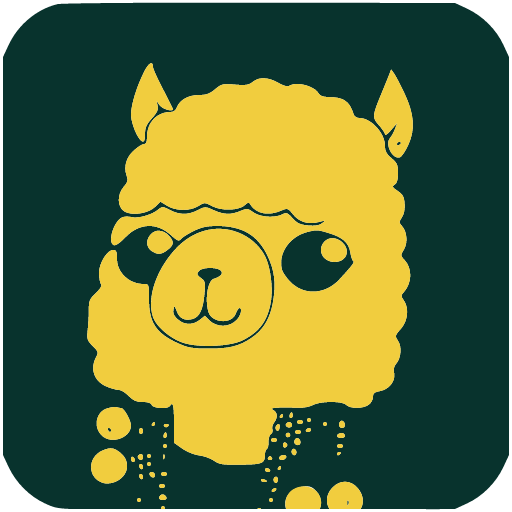
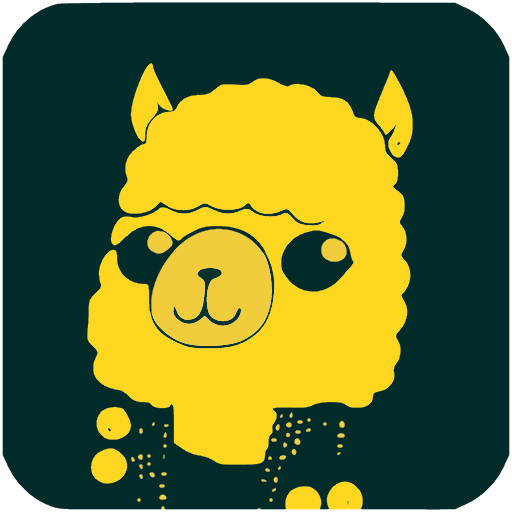
Правка и унификация Readme + media

diff --git a/README_ENG.md b/README_ENG.md
@@ -101,11 +101,11 @@ To save the response in the console, you can use the standard `>` redirect or th
 
 <br/><br>
 
-When using versions for 1C and OneScript, you can also manually copy common module code into your project. However, regardless of the chosen installation method, it is recommended to obtain files from [*Releases*](https://github.com/Bayselonarrend/OpenIntegrations/releases/latest) or the [*stable branch*](https://github.com/Bayselonarrend/OpenIntegrations/tree/stable) of the repository, as the source files in the main branch may contain intermediate data and functions under development.
+When using versions for 1C and OneScript, you can also manually copy common module code into your project. However, regardless of the chosen installation method, it is recommended to obtain files from [*Downloads page*](https://en.openintegrations.dev/download/), *Releases* or the *stable branch* of the repository, as the source files in the main branch may contain intermediate data and functions under development.
 
 Quick start options:
 
-- To start working in 1C: Simply [download](https://github.com/Bayselonarrend/OpenIntegrations/releases/latest) the CFE file (or XML export) of the extension and load it into your configuration's extensions list<br>
+- To start working in 1C: Simply [download](https://en.openintegrations.dev/download/) the CFE file (or XML export) of the extension and load it into your configuration's extensions list<br>
 - To start working in OneScript: Install the package
 
    From the package hub (RU version only):
@@ -122,7 +122,7 @@ Quick start options:
 
 <br>
 
-- To start working with CLI (command line application): [Download from releases](https://github.com/Bayselonarrend/OpenIntegrations/releases/latest) the Windows installer or one of the Linux package variants, depending on your operating system
+- To start working with CLI (command line application): [Download](https://en.openintegrations.dev/download/) the Windows installer or one of the Linux package variants, depending on your operating system
 
 Regardless of the installation method, OInt CLI is launched with the `oint` command from the command line (when installing via Windows Installer, a system reboot may be required).
 